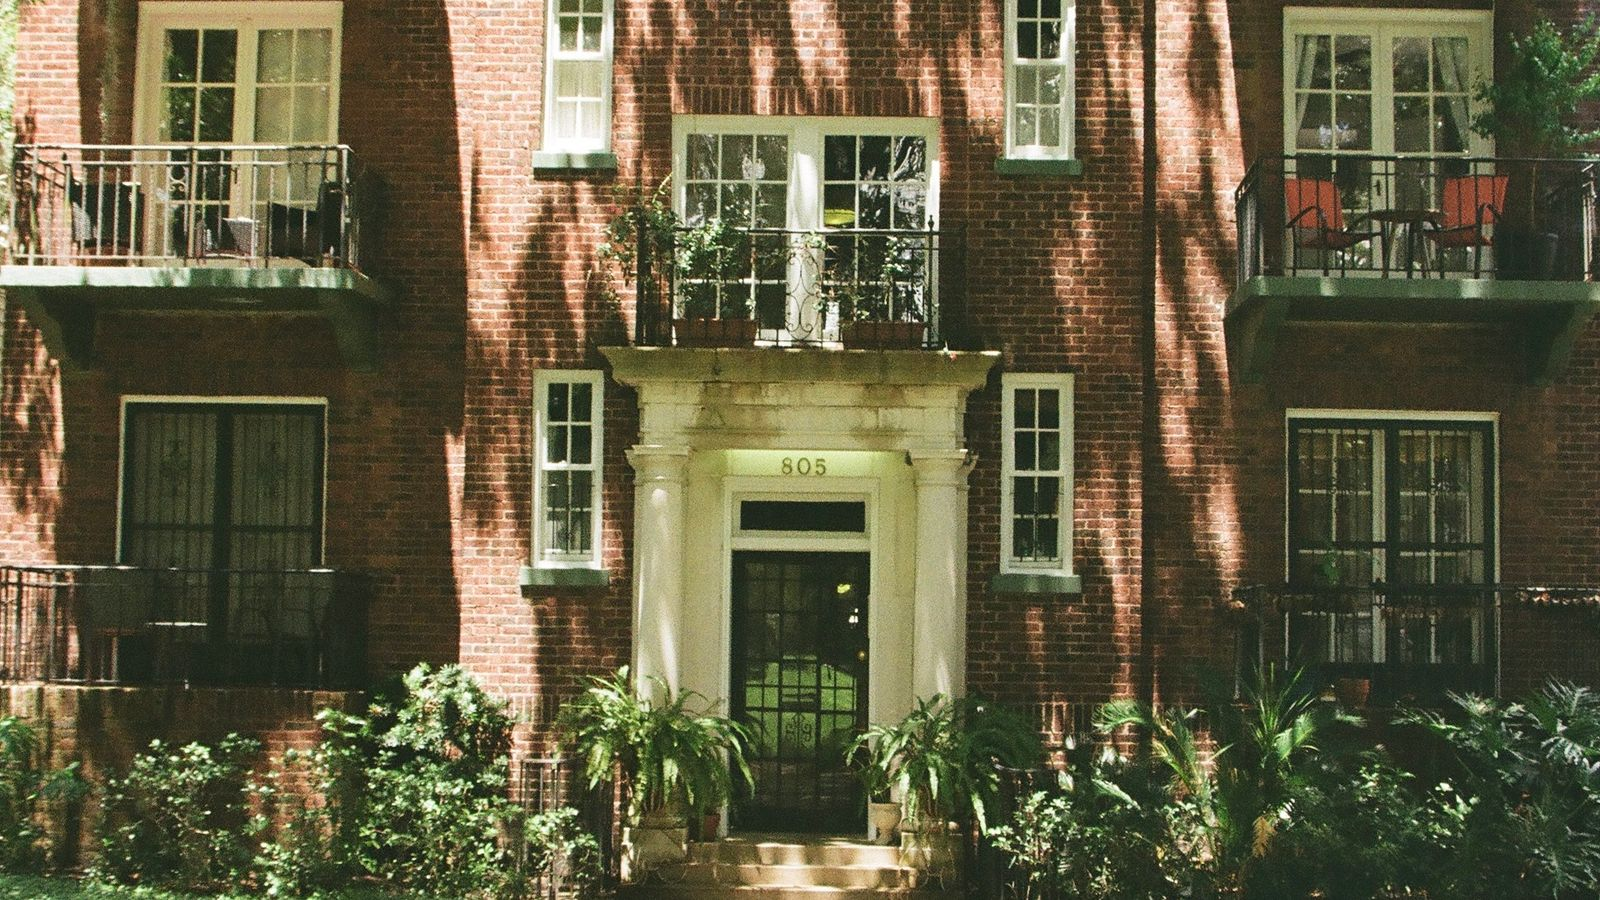
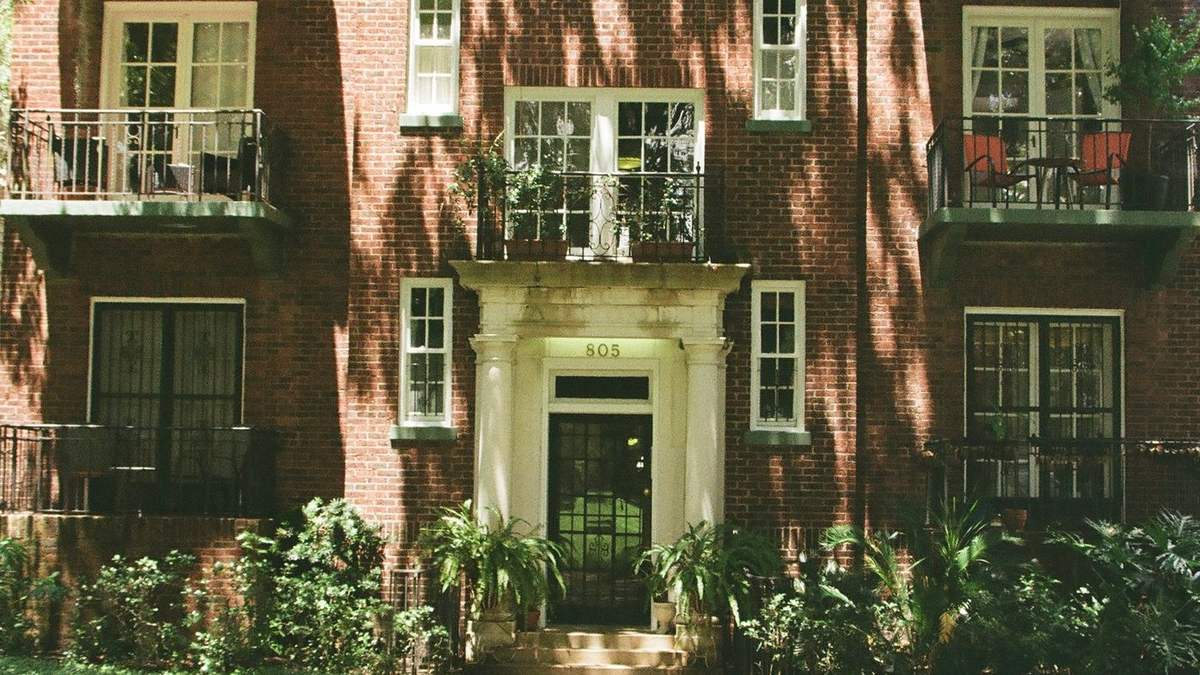
Replace the homepage inspection photo; compress all images 63%
Roman flagged the crawl-space inspection shot as reading like AI. Replaced
with a real street photograph of a row of Savannah brick townhouses --
film grain, a parked car, cobblestones -- which is both unmistakably a
photograph and better on subject, since the raised main-floor entries over
ground-level doors are exactly the foundation type the section describes.
Cropped to remove an estate agent's plaque that was legible at the left
edge. The rejected photo is deleted rather than left orphaned in the repo.

Compression: images were 4695KB total, some heroes over 500KB. Fixed by
re-encoding ONCE from fresh originals at 1200x675 rather than
re-compressing already-compressed files, which was producing generation
loss for almost no saving. Now 1744KB total, 63% smaller, largest file
201KB and most around 130KB. Each page loads exactly one image (the same
file serves as hero background and content image), so per-page image
weight is now ~130KB rather than ~300KB.

Tested WebP at matched quality first -- it came out within 1% of JPEG on
these grainy photos (foliage, marsh grass, brick), so it was not worth the
fallback complexity for a CSS background-image. Plain progressive JPEG.

Also added explicit width/height to every img so the layout no longer
shifts as photos load.

diff --git a/service-areas/index.html b/service-areas/index.html
@@ -110,7 +110,7 @@
       <div class="service-grid">
         <div class="service-card">
           <div class="img-slot" style="--ar:16/9">
-            <img src="../images/downtown-savannah-home.jpg" alt="Historic brick building in downtown Savannah under live oaks" loading="lazy">
+            <img src="../images/downtown-savannah-home.jpg" alt="Historic brick building in downtown Savannah under live oaks" loading="lazy" width="1200" height="675">
             <span class="img-slot-label">Downtown & Historic Savannah</span>
           </div>
           <h3><a href="downtown-savannah-ga.html" style="color:inherit">Downtown &amp; Historic Savannah</a></h3>
@@ -119,7 +119,7 @@
         </div>
         <div class="service-card">
           <div class="img-slot" style="--ar:16/9">
-            <img src="../images/pooler-new-home.jpg" alt="Newer two-storey home with a concrete driveway, typical of Pooler subdivisions" loading="lazy">
+            <img src="../images/pooler-new-home.jpg" alt="Newer two-storey home with a concrete driveway, typical of Pooler subdivisions" loading="lazy" width="1200" height="675">
             <span class="img-slot-label">Pooler, GA</span>
           </div>
           <h3><a href="pooler-ga.html" style="color:inherit">Pooler, GA</a></h3>
@@ -128,7 +128,7 @@
         </div>
         <div class="service-card">
           <div class="img-slot" style="--ar:16/9">
-            <img src="../images/richmond-hill-home.jpg" alt="Brick family home of the kind built across Richmond Hill's newer neighbourhoods" loading="lazy">
+            <img src="../images/richmond-hill-home.jpg" alt="Brick family home of the kind built across Richmond Hill's newer neighbourhoods" loading="lazy" width="1200" height="675">
             <span class="img-slot-label">Richmond Hill, GA</span>
           </div>
           <h3><a href="richmond-hill-ga.html" style="color:inherit">Richmond Hill, GA</a></h3>
@@ -137,7 +137,7 @@
         </div>
         <div class="service-card">
           <div class="img-slot" style="--ar:16/9">
-            <img src="../images/skidaway-marsh.jpg" alt="Tidal marsh and creeks surrounding Skidaway Island at sunset" loading="lazy">
+            <img src="../images/skidaway-marsh.jpg" alt="Tidal marsh and creeks surrounding Skidaway Island at sunset" loading="lazy" width="1200" height="675">
             <span class="img-slot-label">Skidaway Island</span>
           </div>
           <h3><a href="skidaway-island-ga.html" style="color:inherit">Skidaway Island</a></h3>
@@ -146,7 +146,7 @@
         </div>
         <div class="service-card">
           <div class="img-slot" style="--ar:16/9">
-            <img src="../images/wilmington-island-marsh.jpg" alt="Coastal marshland of the kind that surrounds Wilmington Island" loading="lazy">
+            <img src="../images/wilmington-island-marsh.jpg" alt="Coastal marshland of the kind that surrounds Wilmington Island" loading="lazy" width="1200" height="675">
             <span class="img-slot-label">Wilmington Island</span>
           </div>
           <h3><a href="wilmington-island-ga.html" style="color:inherit">Wilmington Island</a></h3>
@@ -155,7 +155,7 @@
         </div>
         <div class="service-card">
           <div class="img-slot" style="--ar:16/9">
-            <img src="../images/georgetown-ranch-home.jpg" alt="Single-storey ranch home typical of Georgetown's 1970s and 1980s build-out" loading="lazy">
+            <img src="../images/georgetown-ranch-home.jpg" alt="Single-storey ranch home typical of Georgetown's 1970s and 1980s build-out" loading="lazy" width="1200" height="675">
             <span class="img-slot-label">Georgetown</span>
           </div>
           <h3><a href="georgetown-ga.html" style="color:inherit">Georgetown</a></h3>

diff --git a/index.html b/index.html
@@ -221,8 +221,8 @@
           <p>Sandy, water-carrying soil moves seasonally. Piers and footings that were level at build time settle unevenly as it does, and that's what shows up inside as a dip in the floor or a door that suddenly won't latch. Meanwhile the same humidity that makes summers here what they are sits under the house year-round, quietly rotting joists and girders in a vented crawl space.</p>
           <p>Fixing the framing without addressing the moisture underneath it means doing the same repair again in a few years. That's why <a href="services/crawl-space-encapsulation.html">encapsulation</a> and <a href="services/crawl-space-repair.html">structural repair</a> so often belong in the same conversation here.</p>
           <div class="img-slot" style="--ar:16/9; margin-top:1.5rem">
-            <img src="images/foundation-inspection-savannah.jpg" alt="Inspecting a crawl space through the access hatch at the side of a house" loading="lazy">
-            <span class="img-slot-label">Crawl space inspection</span>
+            <img src="images/savannah-brick-row-homes.jpg" alt="A row of historic Savannah brick homes with raised entries above ground-level doors" loading="lazy" width="1200" height="675">
+            <span class="img-slot-label">Savannah's raised historic homes</span>
           </div>
         </div>
         <div class="local-callout">

diff --git a/services/crawl-space-repair.html b/services/crawl-space-repair.html
@@ -161,7 +161,7 @@
           <p>Most Savannah homes sit on a raised crawl space, supported by a grid of piers and wood framing that was sized correctly the day it was built. Two things degrade that over the decades here: soil that shifts under the footings as it wets and dries, and humidity that never leaves the crawl space, softening the wood from below until it can no longer carry the span.</p>
           <p>Repair means restoring the load path, not levelling the surface. We identify which support points have dropped and by how much, replace the framing that's gone soft, and set adjustable steel jacks on poured footings that bear on stable soil instead of loose fill.</p>
           <div class="img-slot" style="--ar:16/9; margin-top:1.5rem">
-            <img src="../images/crawl-space-framing.jpg" alt="Timber floor framing and support beams of the kind stabilised in a Savannah crawl space" loading="lazy">
+            <img src="../images/crawl-space-framing.jpg" alt="Timber floor framing and support beams of the kind stabilised in a Savannah crawl space" loading="lazy" width="1200" height="675">
             <span class="img-slot-label">Crawl Space Repair</span>
           </div>
         </div>

diff --git a/services/crawl-space-encapsulation.html b/services/crawl-space-encapsulation.html
@@ -161,7 +161,7 @@
           <p>The logic behind crawl space vents assumed outdoor air is drier than crawl space air. On the Georgia coast in July it very often isn't. Warm, humid air entering a cool crawl space raises the relative humidity against the framing, and wood that stays above roughly twenty percent moisture content is wood that rots and grows mould.</p>
           <p>Encapsulation treats the crawl space as part of the building rather than as outdoors: a heavy sealed liner across the ground and up the piers and walls, vents closed, and a dehumidifier sized for the volume to hold the space at a stable humidity year-round.</p>
           <div class="img-slot" style="--ar:16/9; margin-top:1.5rem">
-            <img src="../images/crawl-space-insulation.jpg" alt="Insulation and moisture control work being installed between floor framing" loading="lazy">
+            <img src="../images/crawl-space-insulation.jpg" alt="Insulation and moisture control work being installed between floor framing" loading="lazy" width="1200" height="675">
             <span class="img-slot-label">Crawl Space Encapsulation</span>
           </div>
         </div>

diff --git a/services/foundation-crack-repair.html b/services/foundation-crack-repair.html
@@ -161,7 +161,7 @@
           <p>Concrete cracks. Some of it is ordinary curing shrinkage that appeared in the first year and has not changed since, and that genuinely is cosmetic. What matters is telling that apart from a crack that is tracking active movement in the footing below.</p>
           <p>The pattern usually gives it away. Hairline vertical cracks in poured concrete are typically shrinkage. Stair-step cracks following the mortar joints in block or brick, cracks wider at one end than the other, and cracks that reopen after being patched are all movement – and the repair for those starts underneath, not at the surface.</p>
           <div class="img-slot" style="--ar:16/9; margin-top:1.5rem">
-            <img src="../images/masonry-crack-repair.jpg" alt="Hands repointing mortar in a cracked masonry wall with a trowel" loading="lazy">
+            <img src="../images/masonry-crack-repair.jpg" alt="Hands repointing mortar in a cracked masonry wall with a trowel" loading="lazy" width="1200" height="675">
             <span class="img-slot-label">Foundation Crack Repair</span>
           </div>
         </div>

diff --git a/services/foundation-piering.html b/services/foundation-piering.html
@@ -161,7 +161,7 @@
           <p>Savannah's coastal plain soil is sandy loam over clay layers, sitting above a water table that's rarely more than a few feet down. That profile carries a house perfectly well until something changes it – a long drought, a broken supply line, poorly compacted fill under an addition, or years of downspouts discharging against one corner.</p>
           <p>When it does change, the footing goes with it. Piers are the structural answer: steel driven or screwed down past the unstable layer to soil that can carry the load, with brackets that transfer the building's weight onto them.</p>
           <div class="img-slot" style="--ar:16/9; margin-top:1.5rem">
-            <img src="../images/foundation-excavation.jpg" alt="Excavated trench alongside a foundation, the access needed to install piers" loading="lazy">
+            <img src="../images/foundation-excavation.jpg" alt="Excavated trench alongside a foundation, the access needed to install piers" loading="lazy" width="1200" height="675">
             <span class="img-slot-label">Foundation Piering</span>
           </div>
         </div>

diff --git a/services/concrete-slab-leveling.html b/services/concrete-slab-leveling.html
@@ -161,7 +161,7 @@
           <p>Concrete outside a Savannah home sits on sandy soil that water moves through easily. Over time, rain running off the roof and along the drive washes fines out from under the slab, leaving a void. The slab is strong enough to span it for a while, then it settles into it – usually at one corner, usually where the water goes.</p>
           <p>Polyjacking fixes the cause and the symptom together. Small ports are drilled through the slab, expanding polyurethane is injected below it, and the foam fills the void and lifts the concrete back to grade as it expands.</p>
           <div class="img-slot" style="--ar:16/9; margin-top:1.5rem">
-            <img src="../images/settled-concrete-slab.jpg" alt="Concrete slab sections separated and dropped at the joint" loading="lazy">
+            <img src="../images/settled-concrete-slab.jpg" alt="Concrete slab sections separated and dropped at the joint" loading="lazy" width="1200" height="675">
             <span class="img-slot-label">Concrete Slab Leveling</span>
           </div>
         </div>

diff --git a/service-areas/richmond-hill-ga.html b/service-areas/richmond-hill-ga.html
@@ -166,7 +166,7 @@
             <span>Free Inspections</span><span>Written Scope</span><span>ZIP 31324</span>
           </div>
           <div class="img-slot" style="--ar:16/9; margin-top:1.5rem">
-            <img src="../images/richmond-hill-home.jpg" alt="Brick family home of the kind built across Richmond Hill's newer neighbourhoods" loading="lazy">
+            <img src="../images/richmond-hill-home.jpg" alt="Brick family home of the kind built across Richmond Hill's newer neighbourhoods" loading="lazy" width="1200" height="675">
             <span class="img-slot-label">Richmond Hill, GA</span>
           </div>
         </div>

diff --git a/service-areas/georgetown-ga.html b/service-areas/georgetown-ga.html
@@ -166,7 +166,7 @@
             <span>Free Inspections</span><span>Written Scope</span><span>ZIP 31419</span>
           </div>
           <div class="img-slot" style="--ar:16/9; margin-top:1.5rem">
-            <img src="../images/georgetown-ranch-home.jpg" alt="Single-storey ranch home typical of Georgetown's 1970s and 1980s build-out" loading="lazy">
+            <img src="../images/georgetown-ranch-home.jpg" alt="Single-storey ranch home typical of Georgetown's 1970s and 1980s build-out" loading="lazy" width="1200" height="675">
             <span class="img-slot-label">Georgetown</span>
           </div>
         </div>

diff --git a/service-areas/pooler-ga.html b/service-areas/pooler-ga.html
@@ -166,7 +166,7 @@
             <span>Free Inspections</span><span>Written Scope</span><span>ZIP 31322</span>
           </div>
           <div class="img-slot" style="--ar:16/9; margin-top:1.5rem">
-            <img src="../images/pooler-new-home.jpg" alt="Newer two-storey home with a concrete driveway, typical of Pooler subdivisions" loading="lazy">
+            <img src="../images/pooler-new-home.jpg" alt="Newer two-storey home with a concrete driveway, typical of Pooler subdivisions" loading="lazy" width="1200" height="675">
             <span class="img-slot-label">Pooler, GA</span>
           </div>
         </div>

diff --git a/service-areas/downtown-savannah-ga.html b/service-areas/downtown-savannah-ga.html
@@ -166,7 +166,7 @@
             <span>Free Inspections</span><span>Written Scope</span><span>ZIP 31401</span>
           </div>
           <div class="img-slot" style="--ar:16/9; margin-top:1.5rem">
-            <img src="../images/downtown-savannah-home.jpg" alt="Historic brick building in downtown Savannah under live oaks" loading="lazy">
+            <img src="../images/downtown-savannah-home.jpg" alt="Historic brick building in downtown Savannah under live oaks" loading="lazy" width="1200" height="675">
             <span class="img-slot-label">Downtown & Historic Savannah</span>
           </div>
         </div>

diff --git a/service-areas/wilmington-island-ga.html b/service-areas/wilmington-island-ga.html
@@ -166,7 +166,7 @@
             <span>Free Inspections</span><span>Written Scope</span><span>ZIP 31410</span>
           </div>
           <div class="img-slot" style="--ar:16/9; margin-top:1.5rem">
-            <img src="../images/wilmington-island-marsh.jpg" alt="Coastal marshland of the kind that surrounds Wilmington Island" loading="lazy">
+            <img src="../images/wilmington-island-marsh.jpg" alt="Coastal marshland of the kind that surrounds Wilmington Island" loading="lazy" width="1200" height="675">
             <span class="img-slot-label">Wilmington Island</span>
           </div>
         </div>
